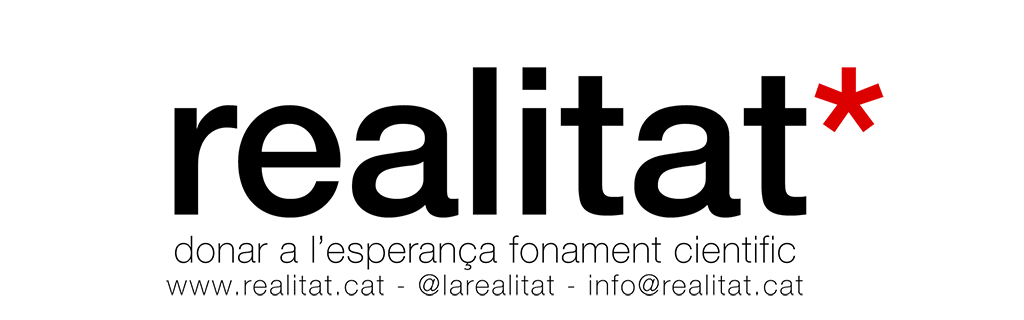
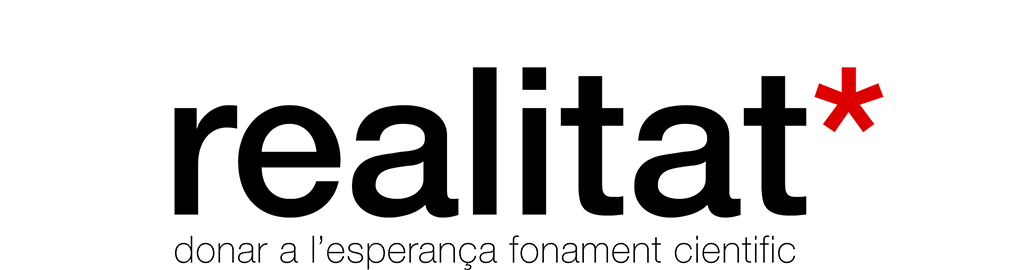
Header image

Changed region(s): [[0.1562, 0.2074, 0.875, 0.8296], [0.1562, 0.8593, 0.7812, 1.0], [0.5625, 0.237, 0.5938, 0.2963]]

diff --git a/templates/realitat-template-publications.html b/templates/realitat-template-publications.html
@@ -76,9 +76,11 @@
 <MainOrArchivePage>
 		<header id="blog-header" class="anm-fadeIn delay-100">
 			<div class="content">
-				<a href="<$BlogUrl$>" title="Realitat" class="level-5"><img src="http://codi.realitat.cat/src/img/header-realitat-editorial.jpg" alt="realitat*"></a>
+				<a href="<$BlogUrl$>" title="Realitat" class="level-6"><img src="http://codi.realitat.cat/src/img/header-realitat-publicacions.png" alt="realitat*"></a>
 				<h1 class="closed"><$BlogTitle$></h1>
+				<p class="lead closed"><$BlogDescription$></p>
 				<div class="button-centered absolute right top hidden-phone">
+					<br>
 					<a href="<$BlogUrl$>feeds/posts/default" class="button-icon circled hover-white orange xs anm-moveFromRightFade delay-2000" target="blank" title="Segueix-nos amb RSS"> <b>RSS</b> </a> 
 					<a href="http://www.twitter.com/larealitat" class="button-icon circled hover-white soft-blue xs anm-moveFromRightFade delay-2000" target="blank" title="Segueix-nos a Twitter"> <b>Tw</b> </a>
 					<a href="http://www.facebook.com/larealitat" class="button-icon circled hover-white blue xs anm-moveFromRightFade delay-2000" target="blank" title="Segueix-nos a Facebook"> <b>Fb</b> </a>
@@ -90,9 +92,10 @@
 		<nav class="sticky anm-fadeIn delay-200">
 			<div class="content">
 				<input class="toggletrigger" type="checkbox" id="mob-nav2" name="mob-nav2" aria-hidden="true" hidden>
-				<label for="mob-nav2" class="toggle">Tema <span class="caret"></span></label>
+				<label for="mob-nav2" class="toggle">Tipus <span class="caret"></span></label>
 				<div id="nav-collapse" class="togglecollapsed">
 					<a href="http://realitat.cat" title="www.realitat.cat"><b>realitat<em class="unify red">*</em></b></a>
+					<a href="<$BlogUrl$>" title="Totes les publicacions en PDF">Tot</a>
 					<a href="<$BlogUrl$>search/label/Números" title="Números de la realitat* en PDF">Números</a>
 					<a href="<$BlogUrl$>search/label/Documents" title="Documents de la realitat* en PDF">Documents</a>
 				</div>
@@ -106,27 +109,6 @@
 			<a href="https://plus.google.com/115185630100620701614" class="button-icon circled hover-white red xs anm-moveFromRightFade delay-2000" target="blank" title="Segueix-nos a Google +"> <b>G+</b> </a>
 		</div>
 		
-		<main id="main" class="anm-fadeIn delay-1000">
-			<div class="content gallery">
-					<Blogger>
-						<article id="<$BlogItemNumber$>">
-								<div class="article-thumb"><a href="<$blogItemPermalinkUrl$>" title="<$BlogItemPermalinkUrl$>"><$BlogItemBody$></a></div>
-								<h3 class="article-title"><a href="<$blogItemPermalinkUrl$>" title="<$BlogItemPermalinkUrl$>"><$BlogItemTitle$></a></h3>
-						</article>
-					</Blogger>
-				<hr>
-				<h4 class="universe">Més imatges</h4>
-				<nav class="pagination"><$BlogPaginationLinks$></nav>
-				<hr>
-				<div class="button-centered">
-					<a href="http://comunistes.cat/organitzacio/info.html" class="button-icon circled flat green anm-zoomInLeft delay-200" title="Sol·licita'ns o envia'ns informació"> Info </a>
-					<a href="http://comunistes.cat/organitzacio/actua.html" class="button-icon circled flat orange anm-zoomInDown delay-300" title="Col·labora amb Comunistes de Catalunya"> Actua </a>
-					<a href="http://comunistes.cat/organitzacio/milita.html" class="button-icon circled flat red anm-zoomInRight delay-400" title="Milita amb nosaltres"> Milita </a>
-				</div>
-				<hr>
-			</div>
-		</main>
-
 		<main>
 			<div class="content gallery">
 					<Blogger>
@@ -138,12 +120,6 @@
 				<hr>
 				<h4 class="universe">Més publicacions</h4>
 				<nav class="pagination"><$BlogPaginationLinks$></nav>
-				<hr>
-				<div class="button-centered">
-					<a href="http://twitter.com/?status=<$BlogURL$>" class="button-icon hover-white soft-blue" title="Comparteix a Twitter">Tw</a> <br class="hidden-phone">
-					<a href="http://www.facebook.com/sharer.php?u=<$BlogURL$>&t=<$BlogItemTitle$>" class="button-icon hover-white blue" title="Comparteix a Facebook">Fb</a> <br class="hidden-phone">
-					<a href="https://plusone.google.com/_/+1/confirm?hl=en&url=<$BlogURL$>" class="button-icon hover-white red" title="Comparteix a Google +">G+</a>
-				</div>
 				<hr>
 			</div>
 		</main>
@@ -177,10 +153,10 @@
 							<$BlogItemBody$>
 						</div>
 						<hr>
-						<p class="universe"><a href="<$BlogItemUrl$>" title="Veure la font en una nova pàgina" target="blank"><$BlogItemUrl$></a></p>
+						<div class="button-centered"><a href="<$BlogItemUrl$>" data-link="Descarrega!" target="blank" class="button flat violet rounded xl button-slideTop">Versió PDF</a></div>
 						<hr>
 					</Blogger>
-					<h2 class="universe thin"><small>Més articles</small></h2>
+					<h2 class="universe thin"><small>Més publicacions</small></h2>
 					<nav class="pagination"><$BlogPaginationLinks$></nav>
 					<hr>
 					<aside class="aside-tools universe base">
@@ -251,22 +227,19 @@
 					<h2><small>edita</small></h2>
 					<a href="http://comunistes.cat" title="www.comunistes.cat" class="button-image anm-moveFromTopFade"><img src="http://codi.comunistes.cat/logo/logocomunistes-base-negative.png" alt="Comunistes de Catalunya"></a>
 					<p class="lead">Comunistes de Catalunya</p>
-					<p>
-
-					</p>
 			</div>
 		</section>
 				
 		<footer id="terms-footer" class="universe flat black">
 			<div class="content">
 				<p>
-					<span class="license symbol-copyright"> 2015 <a href="http://comunistes.cat" title="www.comunistes.cat">Comunistes de Catalunya</a></span> | 
-					<span class="symbol-recycle2"><a href="http://creativecommons.org/licenses/by-nc-nd/4.0/deed.ca" title="Termes de la llicència">(By-nc-sa)</a> </span> |
-					<span class="symbol-chess-black-rook"><adress>carrer Liuva, 39-45, Barcelona</adress> | <span class="symbol-blackphone"><a href="tel:+34933184282" title=""Truca'ns">(0034) 93 318 42 82</a></span>  | 
-					<span class="email symbol-email"><a href="mailto:info@realitat.cat" title="Escriu-nos">info@realitat.cat</a></span> |
-					<span class="symbol-registered">Dipòsit legal: B-46492-88</span> |
-					<span class="legal symbol-justice"><a href="http://codi.realitat.cat/avislegal/" title="Informació legal">Avís legal</a></span> |
-					<span class="legal symbol-gear"><a href="http://codi.realitat.cat/codicomunistes/" title="Informació legal">Codi font</a></span>  |
+					<span class="license symbol-copyright"> 2015 <a href="http://comunistes.cat" title="www.comunistes.cat">Comunistes de Catalunya</a></span> 
+					<span class="symbol-recycle2"><a href="http://creativecommons.org/licenses/by-nc-nd/4.0/deed.ca" title="Termes de la llicència">(By-nc-sa)</a> </span> 
+					<span class="symbol-chess-black-rook"><adress><a href="https://www.google.es/maps/place/Carrer+de+Liuva,+39,+08030+Barcelona/@41.431129,2.1898449,17z/data=!3m1!4b1!4m5!3m4!1s0x12a4bcda8f9c3317:0x2023f150cbd667ba!8m2!3d41.431129!4d2.1920336" title="Plànol">carrer Liuva, 39-45, Barcelona</a></adress> | <span class="symbol-blackphone"><a href="tel:+34933184282" title=""Truca'ns">(0034) 93 318 42 82</a></span>  
+					<span class="email symbol-email"><a href="mailto:info@realitat.cat" title="Escriu-nos">info@realitat.cat</a></span> 
+					<span class="symbol-registered"> Dipòsit legal: B-46492-88</span> 
+					<span class="legal symbol-justice"><a href="http://codi.realitat.cat/avislegal/" title="Informació legal">Avís legal</a></span> 
+					<span class="legal symbol-gear"><a href="http://codi.realitat.cat/codicomunistes/" title="Informació legal">Codi font</a></span>  
 				</p>
 				<hr>
 			</div>

diff --git a/templates/realitat-template-mosaic.html b/templates/realitat-template-mosaic.html
@@ -74,7 +74,8 @@
 <MainOrArchivePage>
 		<header class="universe">
 			<div class="content">
-				<a href="<$BlogUrl$>" title="Realitat"><img src="http://codi.realitat.cat/src/img/header-realitat.jpg" alt="realitat*"></a>
+				<div class="cell-6 pushed-3"><a href="<$BlogUrl$>" title="Realitat"><img src="http://codi.realitat.cat/src/img/header-realitat-big.png" alt="realitat*"></a></div>
+				<hr class="no-margin">
 				<h1 class="closed">realitat<b class="unify red">*</b></h1>
 				<p class="lead closed">donar a l'esperança fonament científic</p>
 				<div class="button-centered absolute bottom">
@@ -218,28 +219,52 @@
 </ItemPage>
 
 		
-		<section id="site-quote" class="flat grey">
+		<section id="site-map" class="shallow soft-grey">
 			<div class="content universe">
-				<h2><a href="<$BlogUrl$>" title="<$BlogTitle$>">www.realitat.cat</a></h2>
-				<div class="cell-6 pushed-3">
-					<blockquote class="book-quote">
-						<p>Les coses són senceres allò que aparenten, i darrera d'elles... no hi ha res.</p>
-						<cite>Jean-Paul Sartre</cite>
-					</blockquote>
-				</div>
+				<hr>
+				<blockquote class="book-quote l">
+					<p>Les coses són senceres allò que aparenten, i darrera d'elles... no hi ha res.</p>
+					<cite>Jean-Paul Sartre</cite>
+				</blockquote>
 				<hr class="no-margin">
 			</div>
 		</section>
 		
+		<section id="site-map" class="flat grey">
+			<div class="content universe">
+				<h2><a href="http://realitat.cat" title="www.realitat.cat">realitat<span class="unify red">*</span></a></h2>
+					<p class="lead">donar a l'esperança fonament científic</p>
+					<ul class="list-unlisted">
+						<li><a href="http://bloc.realitat.cat" title="Bloc de la realitat*">Bloc</a></li>
+						<li><a href="http://publicacions.realitat.cat" title="Publicacions de la realitat*">Publicacions</a></li>
+						<li><a href="http://lesarrels.realitat.cat" title="la Columna de Miquel Àngel Soria a la realitat*">les Arrels</a></li>
+						<li><a href="http://alfonsalesquerra.realitat.cat" title="la Columna de Cultura amb classe a la realitat*">Al fons a l'esquerra</a></li>
+					</ul>
+				<hr class="no-margin">
+			</div>
+		</section>
+		
+		<section id="site-author" class="flat hard-grey">
+			<div class="content universe">
+					<h2><small>edita</small></h2>
+					<a href="http://comunistes.cat" title="www.comunistes.cat" class="button-image anm-moveFromTopFade"><img src="http://codi.comunistes.cat/logo/logocomunistes-base-negative.png" alt="Comunistes de Catalunya"></a>
+					<p class="lead">Comunistes de Catalunya</p>
+			</div>
+		</section>
+				
 		<footer id="terms-footer" class="universe flat black">
 			<div class="content">
-				<span class="license symbol-copyright"> 2015 <a href="http://comunistes.cat" title="www.comunistes.cat">Comunistes de Catalunya</a> <a href="http://creativecommons.org/licenses/by-nc-nd/4.0/deed.ca" title="Termes de la llicència">(By-nc-sa)</a> </span>  
-				<span class="email symbol-email"><a href="mailto:info@realitat.cat" title="Escriu">info@realitat.cat</a></span> 
-				<span class="legal symbol-justice"><a href="http://codi.realitat.cat/avislegal/" title="Informació legal">Avís legal</a></span> 
-				<span class="legal symbol-gear"><a href="http://codi.realitat.cat/codicomunistes/" title="Informació legal">Codi font</a></span> 
+				<p>
+					<span class="license symbol-copyright"> 2015 <a href="http://comunistes.cat" title="www.comunistes.cat">Comunistes de Catalunya</a></span> 
+					<span class="symbol-recycle2"><a href="http://creativecommons.org/licenses/by-nc-nd/4.0/deed.ca" title="Termes de la llicència">(By-nc-sa)</a> </span> 
+					<span class="symbol-chess-black-rook"><adress><a href="https://www.google.es/maps/place/Carrer+de+Liuva,+39,+08030+Barcelona/@41.431129,2.1898449,17z/data=!3m1!4b1!4m5!3m4!1s0x12a4bcda8f9c3317:0x2023f150cbd667ba!8m2!3d41.431129!4d2.1920336" title="Plànol">carrer Liuva, 39-45, Barcelona</a></adress> | <span class="symbol-blackphone"><a href="tel:+34933184282" title=""Truca'ns">(0034) 93 318 42 82</a></span>  
+					<span class="email symbol-email"><a href="mailto:info@realitat.cat" title="Escriu-nos">info@realitat.cat</a></span> 
+					<span class="symbol-registered"> Dipòsit legal: B-46492-88</span> 
+					<span class="legal symbol-justice"><a href="http://codi.realitat.cat/avislegal/" title="Informació legal">Avís legal</a></span> 
+					<span class="legal symbol-gear"><a href="http://codi.realitat.cat/codicomunistes/" title="Informació legal">Codi font</a></span>  
+				</p>
 				<hr>
 			</div>
-			<div class="white-space"></div>
 		</footer>
 
 	</div><!-- /#page -->
